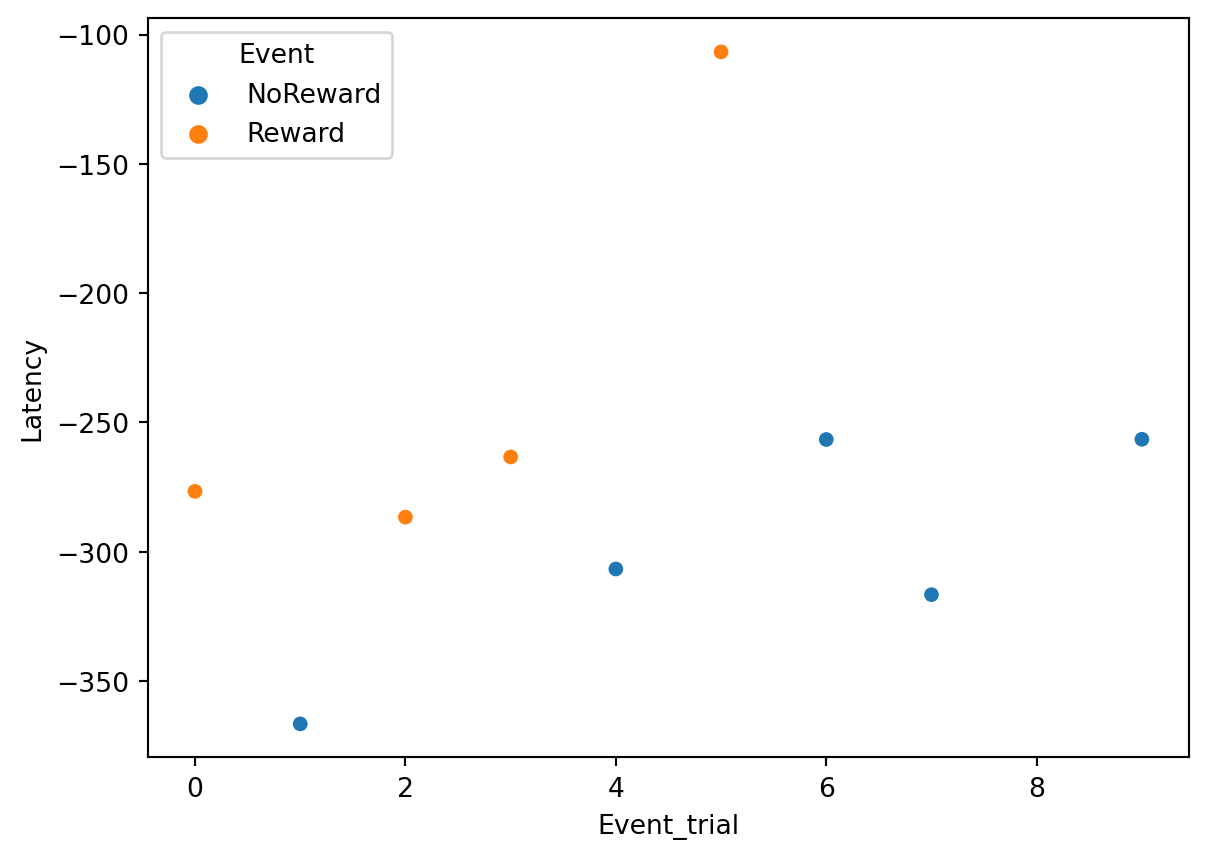
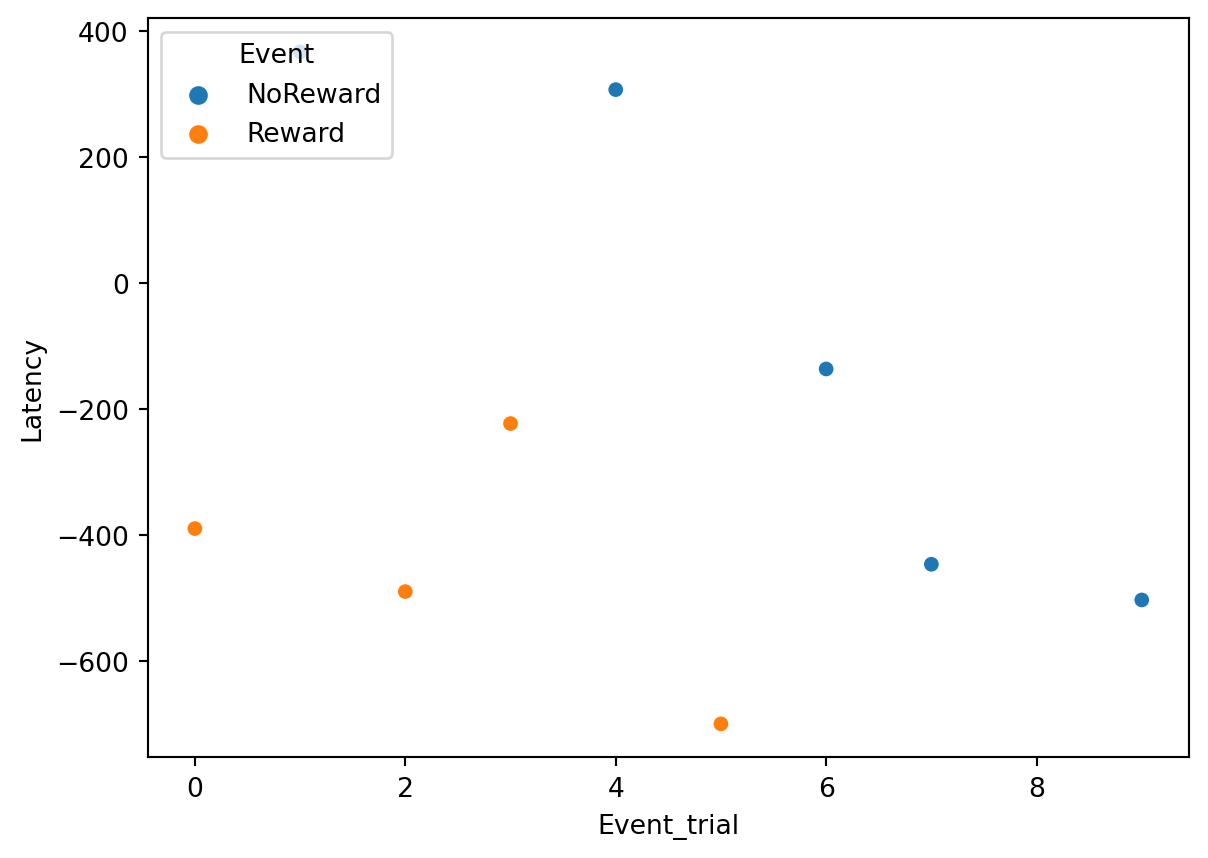
update fix to data and website

diff --git a/docs/CONTENT/EyeTracking/FromFixationsToData.html b/docs/CONTENT/EyeTracking/FromFixationsToData.html
@@ -114,10 +114,8 @@ gtag('config', 'G-G5XSH1GLW7', { 'anonymize_ip': true});
 
 <meta property="og:title" content="DevStart - From fixations to measures">
 <meta property="og:description" content="">
-<meta property="og:image" content="https://tommasoghilardi.github.io/DevStart/CONTENT/EyeTracking/FromFixationsToData_files/figure-html/cell-4-output-1.png">
+<meta property="og:image" content="https://tommasoghilardi.github.io/DevStart/CONTENT/EyeTracking/images/LOGO.png">
 <meta property="og:site-name" content="DevStart">
-<meta property="og:image:height" content="733">
-<meta property="og:image:width" content="1314">
 <meta name="twitter:title" content="DevStart - From fixations to measures">
 <meta name="twitter:description" content="">
 <meta name="twitter:image" content="https://tommasoghilardi.github.io/DevStart/CONTENT/EyeTracking/FromFixationsToData_files/figure-html/cell-4-output-1.png">
@@ -569,9 +567,9 @@ Important
 <span id="cb12-5"><a href="#cb12-5" aria-hidden="true" tabindex="-1"></a><span class="co"># We select only the correct fixations</span></span>
 <span id="cb12-6"><a href="#cb12-6" aria-hidden="true" tabindex="-1"></a>Correct_Target_fixations <span class="op">=</span> Target_fixations.loc[Target_fixations[<span class="st">'Correct_Aoi'</span>] <span class="op">==</span> Target_fixations[<span class="st">'Looked_AOI'</span>],]</span></code><button title="Copy to Clipboard" class="code-copy-button"><i class="bi"></i></button></pre></div>
 </div>
-<p>Now we can finally extract the saccadic latency by simply subtracting the onset of the event <code>Onset</code> from the onset of the fixations (<code>startT</code>):</p>
+<p>Now we can finally extract the saccadic latency by simply subtracting from the onset of the fixations (<code>startT</code>) the event <code>Onset</code>:</p>
 <div class="cell" data-execution_count="13">
-<div class="sourceCode cell-code" id="cb13"><pre class="sourceCode python code-with-copy"><code class="sourceCode python"><span id="cb13-1"><a href="#cb13-1" aria-hidden="true" tabindex="-1"></a>Correct_Target_fixations[<span class="st">'Latency'</span>] <span class="op">=</span> Correct_Target_fixations[<span class="st">'Onset'</span>] <span class="op">-</span> Correct_Target_fixations[<span class="st">'startT'</span>]</span></code><button title="Copy to Clipboard" class="code-copy-button"><i class="bi"></i></button></pre></div>
+<div class="sourceCode cell-code" id="cb13"><pre class="sourceCode python code-with-copy"><code class="sourceCode python"><span id="cb13-1"><a href="#cb13-1" aria-hidden="true" tabindex="-1"></a>Correct_Target_fixations[<span class="st">'Latency'</span>] <span class="op">=</span> Correct_Target_fixations[<span class="st">'startT'</span>] <span class="op">-</span> Correct_Target_fixations[<span class="st">'Onset'</span>]</span></code><button title="Copy to Clipboard" class="code-copy-button"><i class="bi"></i></button></pre></div>
 </div>
 <p>Voilá!! as simple as this!!! Now our <code>Latency</code> column will contain the onset of the fixations in relation to the target presentation.</p>
 <div class="callout callout-style-default callout-note callout-titled">
@@ -1475,10 +1473,10 @@ window.document.addEventListener("DOMContentLoaded", function (event) {
 <span id="cb19-282"><a href="#cb19-282" aria-hidden="true" tabindex="-1"></a>Correct_Target_fixations <span class="op">=</span> Target_fixations.loc[Target_fixations[<span class="st">'Correct_Aoi'</span>] <span class="op">==</span> Target_fixations[<span class="st">'Looked_AOI'</span>],]</span>
 <span id="cb19-283"><a href="#cb19-283" aria-hidden="true" tabindex="-1"></a><span class="in">```</span></span>
 <span id="cb19-284"><a href="#cb19-284" aria-hidden="true" tabindex="-1"></a></span>
-<span id="cb19-285"><a href="#cb19-285" aria-hidden="true" tabindex="-1"></a>Now we can finally extract the saccadic latency by simply subtracting the onset of the event <span class="in">`Onset`</span> from the onset of the fixations (<span class="in">`startT`</span>):</span>
+<span id="cb19-285"><a href="#cb19-285" aria-hidden="true" tabindex="-1"></a>Now we can finally extract the saccadic latency by simply subtracting from the onset of the fixations (<span class="in">`startT`</span>) the event <span class="in">`Onset`</span>:</span>
 <span id="cb19-286"><a href="#cb19-286" aria-hidden="true" tabindex="-1"></a></span>
 <span id="cb19-289"><a href="#cb19-289" aria-hidden="true" tabindex="-1"></a><span class="in">```{python}</span></span>
-<span id="cb19-290"><a href="#cb19-290" aria-hidden="true" tabindex="-1"></a>Correct_Target_fixations[<span class="st">'Latency'</span>] <span class="op">=</span> Correct_Target_fixations[<span class="st">'Onset'</span>] <span class="op">-</span> Correct_Target_fixations[<span class="st">'startT'</span>]</span>
+<span id="cb19-290"><a href="#cb19-290" aria-hidden="true" tabindex="-1"></a>Correct_Target_fixations[<span class="st">'Latency'</span>] <span class="op">=</span> Correct_Target_fixations[<span class="st">'startT'</span>] <span class="op">-</span> Correct_Target_fixations[<span class="st">'Onset'</span>]</span>
 <span id="cb19-291"><a href="#cb19-291" aria-hidden="true" tabindex="-1"></a><span class="in">```</span></span>
 <span id="cb19-292"><a href="#cb19-292" aria-hidden="true" tabindex="-1"></a></span>
 <span id="cb19-293"><a href="#cb19-293" aria-hidden="true" tabindex="-1"></a>Voilá!! as simple as this!!! Now our <span class="in">`Latency`</span> column will contain the onset of the fixations in relation to the target presentation.</span>

diff --git a/docs/index.html b/docs/index.html
@@ -114,8 +114,10 @@ gtag('config', 'G-G5XSH1GLW7', { 'anonymize_ip': true});
 
 <meta property="og:title" content="DevStart - Getting Started with Developmental Cognitive Science">
 <meta property="og:description" content="Getting Started with Developmental Cognitive Science">
-<meta property="og:image" content="https://tommasoghilardi.github.io/DevStart/images/welcome/Tommaso.jpg">
+<meta property="og:image" content="https://tommasoghilardi.github.io/DevStart/images/LOGO.png">
 <meta property="og:site-name" content="DevStart">
+<meta property="og:image:height" content="5196">
+<meta property="og:image:width" content="4472">
 <meta name="twitter:title" content="DevStart - Getting Started with Developmental Cognitive Science">
 <meta name="twitter:description" content="Getting Started with Developmental Cognitive Science">
 <meta name="twitter:image" content="https://tommasoghilardi.github.io/DevStart/images/welcome/Tommaso.jpg">
